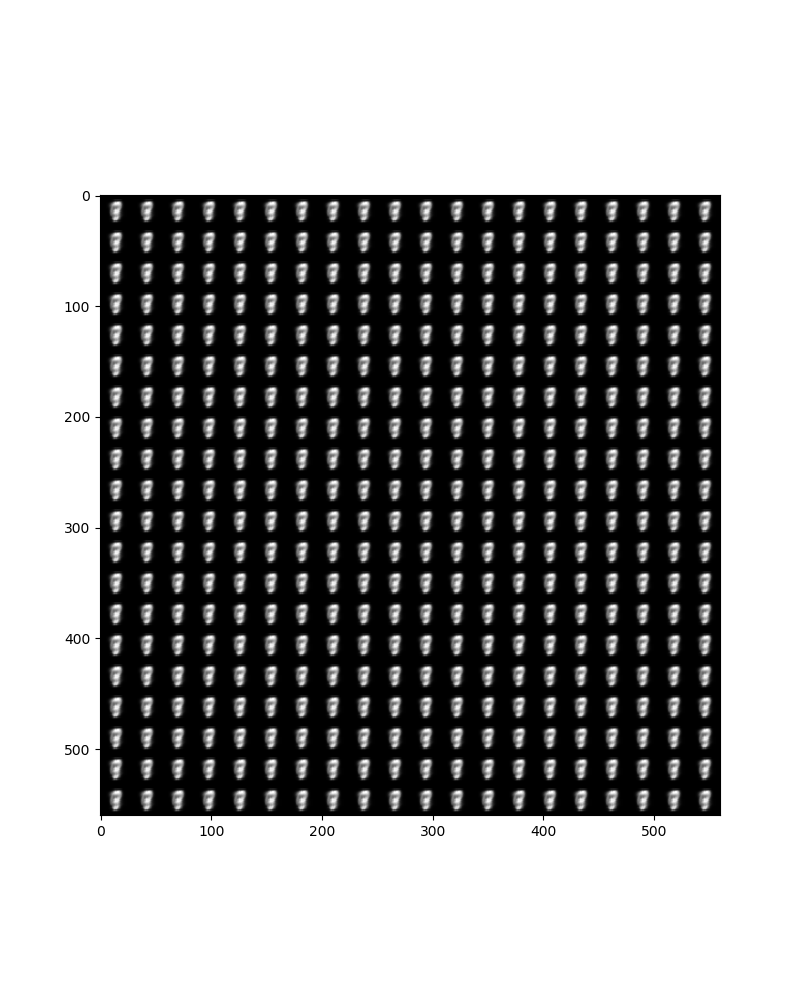
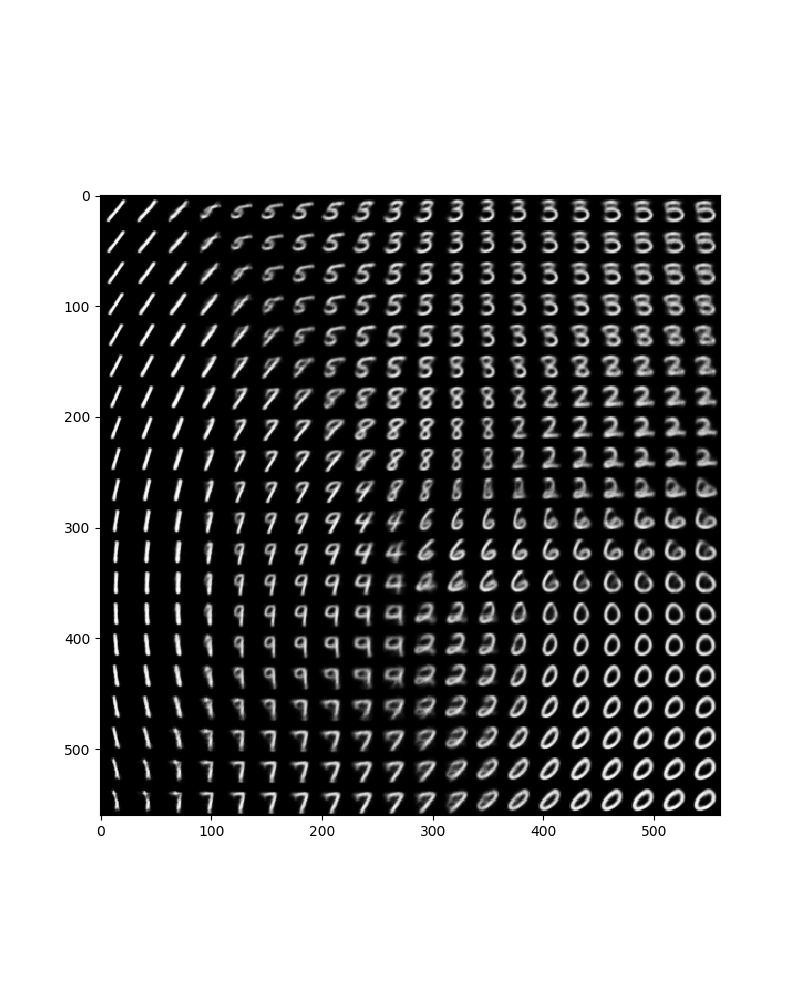
成功

Changed region(s): [[0.125, 0.186, 0.9062, 0.837]]

diff --git a/vae_tensorflow.py b/vae_tensorflow.py
@@ -30,21 +30,22 @@ class VAE(object):
 
         # encoder
         self.encoder = tf.layers.dense(self.x, units=self.hidden_dim)
-        self.encoder = tf.layers.batch_normalization(self.encoder, training=True)
-        self.encoder = tf.nn.softplus(self.encoder)
+        #self.encoder = tf.layers.batch_normalization(self.encoder, training=True)
+        self.encoder = tf.nn.relu(self.encoder)
         self.encoder = tf.layers.dense(self.encoder, units=self.hidden_dim)
-        self.encoder = tf.layers.batch_normalization(self.encoder, training=True)
+        #self.encoder = tf.layers.batch_normalization(self.encoder, training=True)
+        self.encoder = tf.nn.relu(self.encoder)
 
-        self.encoder_mean = tf.nn.softplus(self.encoder)
-        self.encoder_mean = tf.layers.dense(self.encoder_mean, units=self.hidden_dim)
-        self.encoder_mean = tf.layers.batch_normalization(self.encoder_mean, training=True)
-        self.encoder_mean = tf.nn.softplus(self.encoder_mean)
+        #self.encoder_mean = tf.nn.softplus(self.encoder)
+        self.encoder_mean = tf.layers.dense(self.encoder, units=self.hidden_dim)
+        #self.encoder_mean = tf.layers.batch_normalization(self.encoder_mean, training=True)
+        self.encoder_mean = tf.nn.relu(self.encoder_mean)
         self.encoder_mean = tf.layers.dense(self.encoder_mean, units=self.z_dim)
 
         self.encoder_std = tf.layers.dense(self.encoder, units=self.hidden_dim)
-        self.encoder_std = tf.layers.batch_normalization(self.encoder_std, training=True)
-        self.encoder_std = tf.nn.softplus(self.encoder_std)
-        self.encoder_std = tf.layers.dense(self.encoder_std, units=self.z_dim, activation=tf.nn.softplus)
+        #self.encoder_std = tf.layers.batch_normalization(self.encoder_std, training=True)
+        self.encoder_std = tf.nn.relu(self.encoder_std)
+        self.encoder_std = tf.layers.dense(self.encoder_std, units=self.z_dim)
 
         # sampling
         self.epsilon = tf.random_normal(shape=(self.z_dim,), mean=0.0, stddev=1.0)
@@ -52,10 +53,11 @@ class VAE(object):
 
         # decoder
         self.decoder = tf.layers.dense(self.z, units=self.hidden_dim, name='fc1')
-        self.decoder = tf.layers.batch_normalization(self.decoder, training=True, name='bn1')
-        self.decoder = tf.nn.softplus(self.decoder)
+        #self.decoder = tf.layers.batch_normalization(self.decoder, training=True, name='bn1')
+        self.decoder = tf.nn.relu(self.decoder)
         self.decoder = tf.layers.dense(self.decoder, units=self.hidden_dim, name='fc2')
-        self.decoder = tf.layers.batch_normalization(self.decoder, training=True, name='bn2')
+        self.decoder = tf.nn.relu(self.decoder)
+        #self.decoder = tf.layers.batch_normalization(self.decoder, training=True, name='bn2')
         self.decoder = tf.layers.dense(self.decoder, units=self.input_dim, activation=tf.sigmoid, name='output')
 
     # ここが違いそう
@@ -117,8 +119,8 @@ class VAE(object):
             save_path = os.path.join(save_dir + "figure.png")
             generate_num = 20
 
-            x_axis = np.linspace(-30000, 30000, generate_num)
-            y_axis = np.linspace(-30000, 30000, generate_num)
+            x_axis = np.linspace(-3, 3, generate_num)
+            y_axis = np.linspace(-3, 3, generate_num)
 
             canvas = np.empty((28 * generate_num, 28 * generate_num))
 
